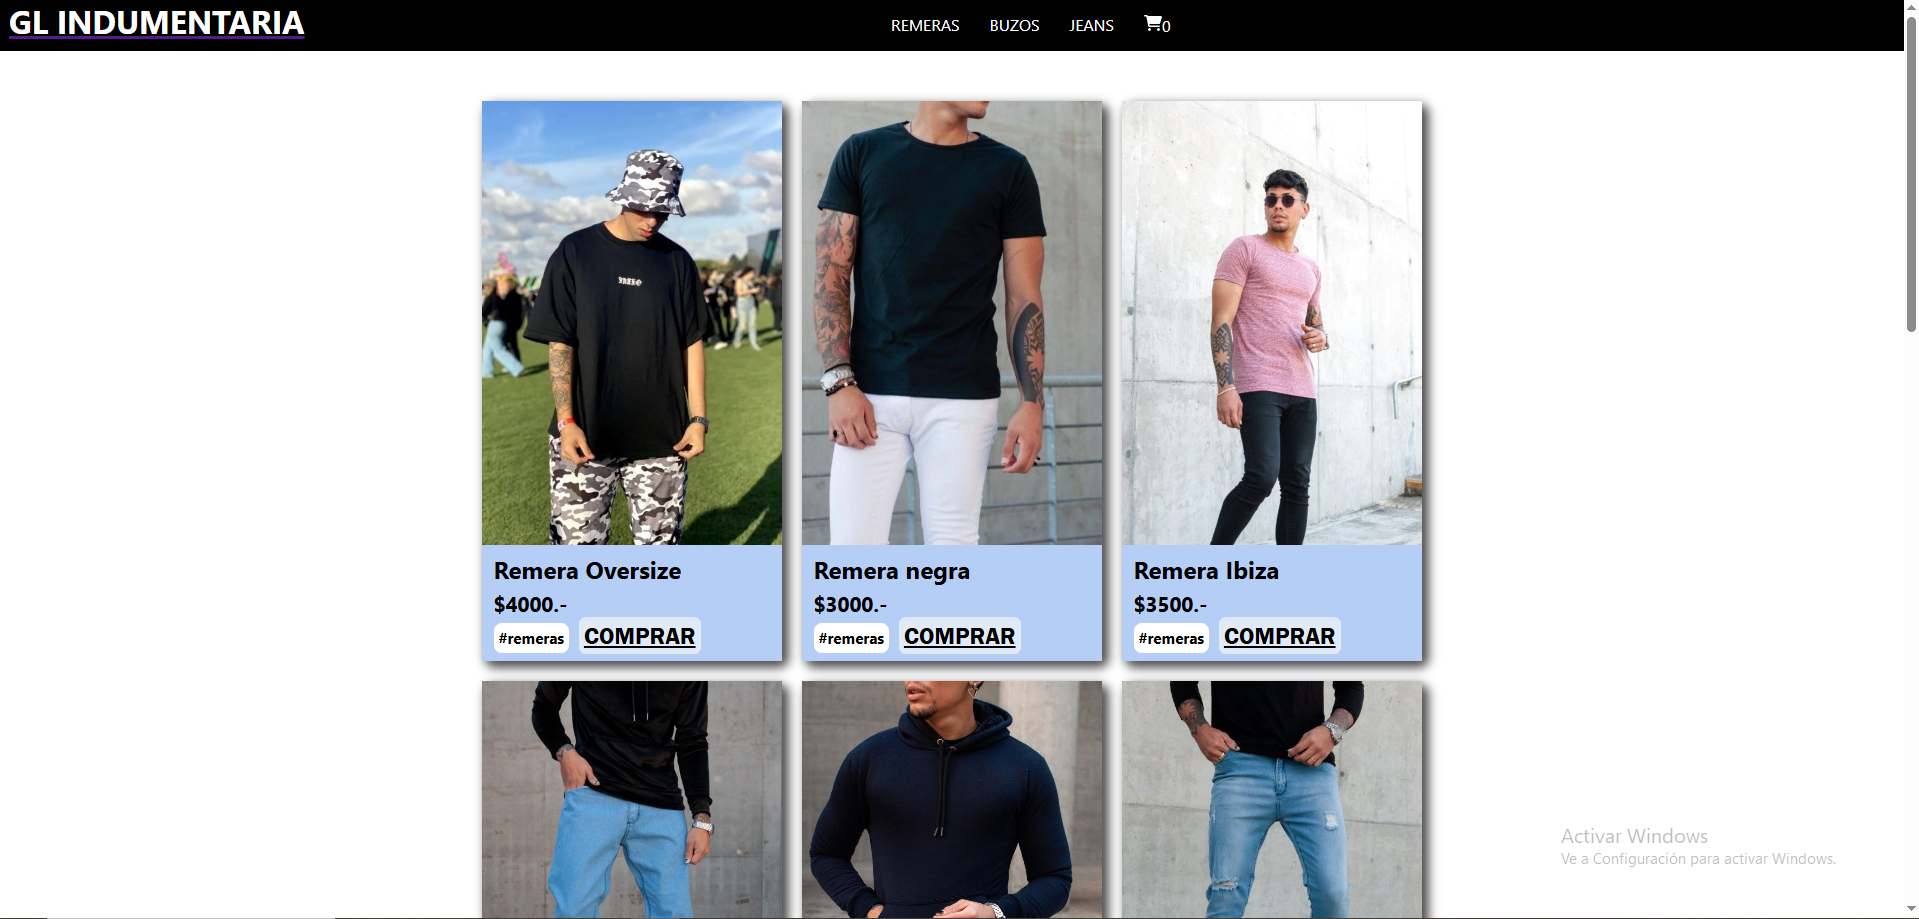
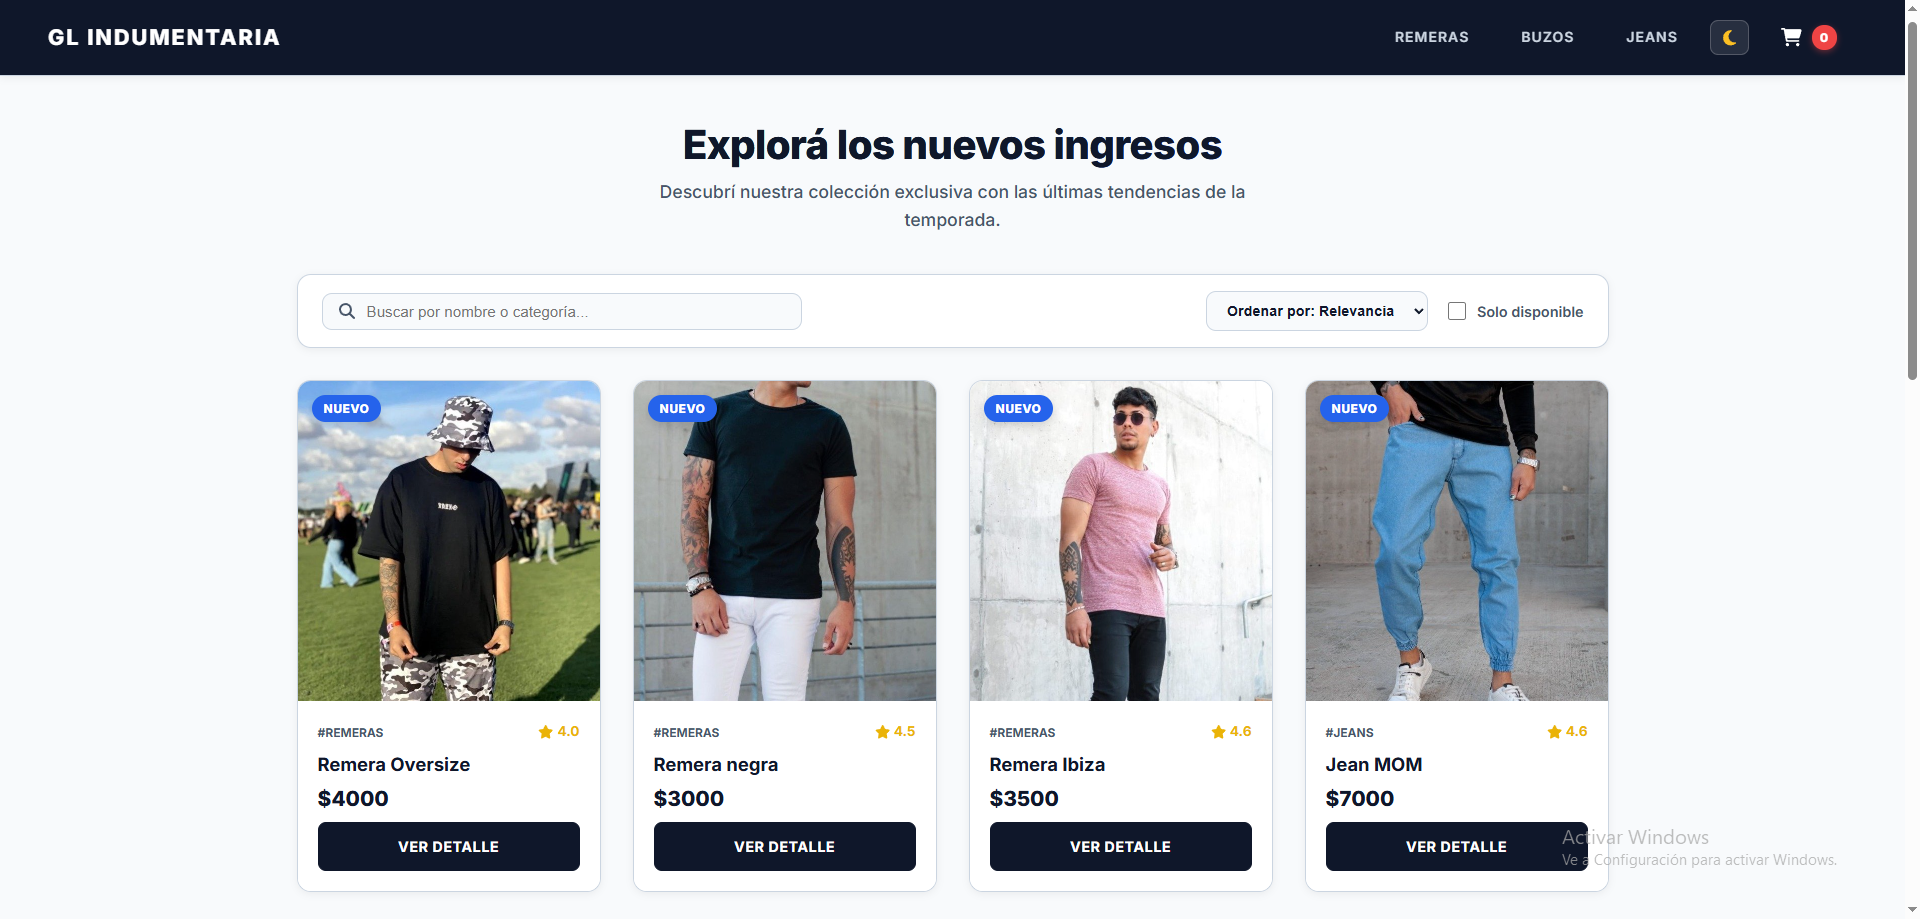
modificacion proyectos

diff --git a/src/components/ProjectsSection.jsx b/src/components/ProjectsSection.jsx
@@ -4,15 +4,26 @@ import { useToast } from "@/hooks/use-toast";
 const projects = [
   {
     id: 1,
-    title: "GL Indumentaria",
-    description: "Página web simulando una tienda de ropa. La misma cuenta con productos extraidos de firebase, imagenes, detalle de cada producto, carrito de compra y formulario de datos.",
-    image: "/media/proyecto-1.png",
-    tags: ["React", "Javascrpit"],
-    demoUrl: "#",
-    githubUrl: "https://github.com/gonzaloleone/ProyectoFinal-Leone",
+    title: "MatchPoint",
+    description:
+      " (La primera petición a la bdd en la demo puede demorar hasta 1 minuto). Gestión de reservas deportivas y publicación de complejos. Búsqueda y filtrado de instalaciones por deporte. Sistema de login, roles de usuario y administradores. Arquitectura en capas (negocio, servicio y controllers), ORM, base de datos y diseño responsive. Testeos.",
+    image: "/media/proyecto-5.png",
+    tags: ["Python", "FastAPI", "SQLAlchemy", "MySQL", "React"],
+    demoUrl: "https://match-point-proyecto.vercel.app/",
+    githubUrl: "https://github.com/gonzaloleone/MatchPoint_Proyecto",
   },
   {
     id: 2,
+    title: "GL Indumentaria",
+    description:
+      "E-Commerce SPA moderno y responsivo para tienda de indumentaria. Cuenta con catálogo dinámico sincronizado con Firebase Firestore, modo oscuro/claro, búsqueda en tiempo real y filtrado por precio/stock. Incluye selección de talles, calificaciones con estrellas, carrito avanzado con cupones promocionales y calculadora de envío, además de un proceso de checkout realista con múltiples métodos de pago y comprobante de compra digital.",
+    image: "/media/proyecto-1.png",
+    tags: ["React", "Firebase", "CSS3", "JavaScript"],
+    demoUrl: "https://gl-indumentaria.vercel.app/",
+    githubUrl: "https://github.com/gonzaloleone/ProyectoFinal-Leone",
+  },
+  {
+    id: 3,
     title: "Catering Link",
     description:
       "Proyecto final de cursada en Certified Tech Developer simulando una página de servicios y contratación de catering. Participación en el repo de backend. La misma cuenta con creación y registro de usuario, usuario administrador con funciones especiales, sección favoritos, filtrado y busqueda de productos, categorías, reserva con calendario, etc.",
@@ -22,7 +33,7 @@ const projects = [
     githubUrl: "https://github.com/Lu-GQ/ProyectoIntegrador1",
   },
   {
-    id: 3,
+    id: 4,
     title: "Clínica Odontológica Back",
     description:
       "ABM de pacientes y odontólogos. Login, asignacion y consultas de turnos. Clases de negocio, servicio y controllers. Utilización de ORM. Invocación de API. Testeos.",
@@ -31,16 +42,6 @@ const projects = [
     demoUrl: "#",
     githubUrl: "https://github.com/gonzaloleone/Leone-Gonzalo_Dubois-Felipe",
   },
-  {
-    id: 4,
-    title: "MatchPoint",
-    description:
-      "Gestión de reservas deportivas y publicación de complejos. Búsqueda y filtrado de instalaciones por deporte. Sistema de login, roles de usuario y administradores. Arquitectura en capas (negocio, servicio y controllers), ORM, base de datos y diseño responsive. Testeos.",
-    image: "/media/proyecto-5.png",
-    tags: ["Python", "FastAPI", "SQLAlchemy", "MySQL", "React"],
-    demoUrl: "https://match-point-proyecto.vercel.app/",
-    githubUrl: "https://github.com/gonzaloleone/MatchPoint_Proyecto",
-},
   /*{
     id: 4,
     title: "Clínica Odontológica Front",
@@ -57,7 +58,7 @@ const projects = [
 
 
 export const ProjectsSection = () => {
-  const { toast } = useToast(); 
+  const { toast } = useToast();
 
   const handleDemoClick = (e, url) => {
     if (url === "#") {
@@ -65,7 +66,7 @@ export const ProjectsSection = () => {
       toast({
         title: "🚧 DEMO EN REFACCIÓN",
         description: "La demo del proyecto esta en mejora. Código disponible en Github!",
-        className: "bg-red-600 text-white border border-red-700", 
+        className: "bg-red-600 text-white border border-red-700",
       });
     }
   };
